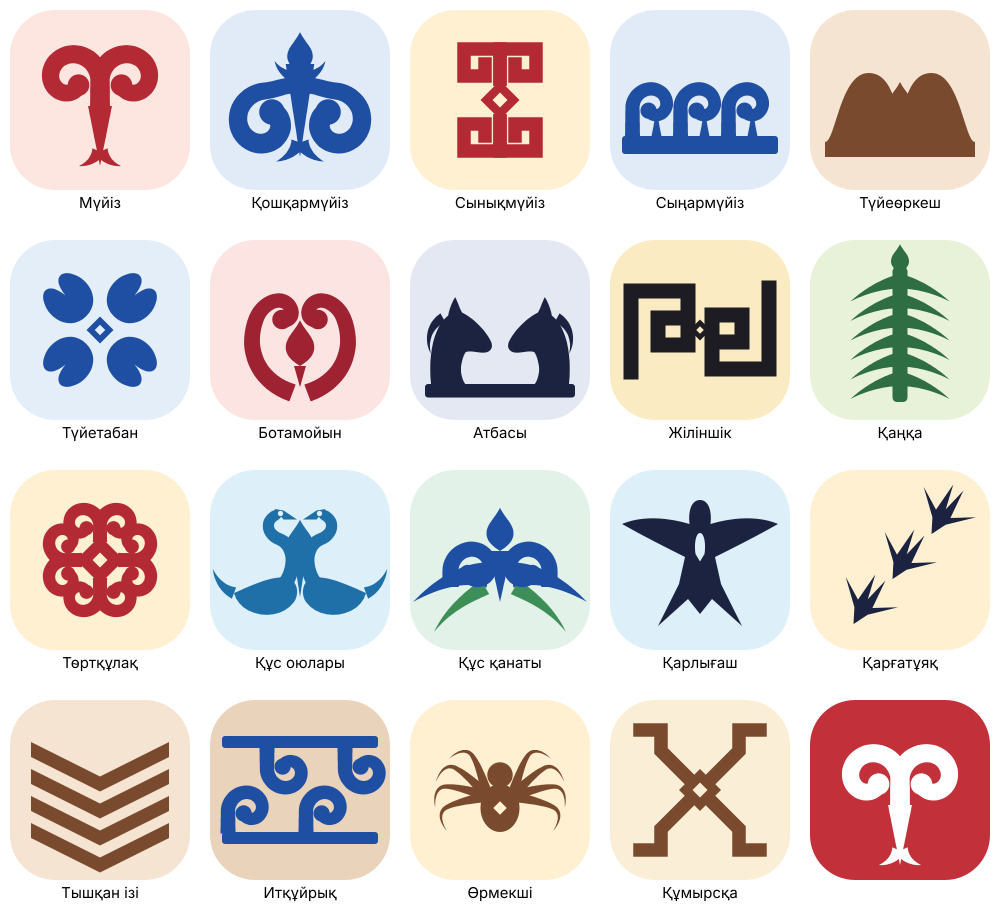
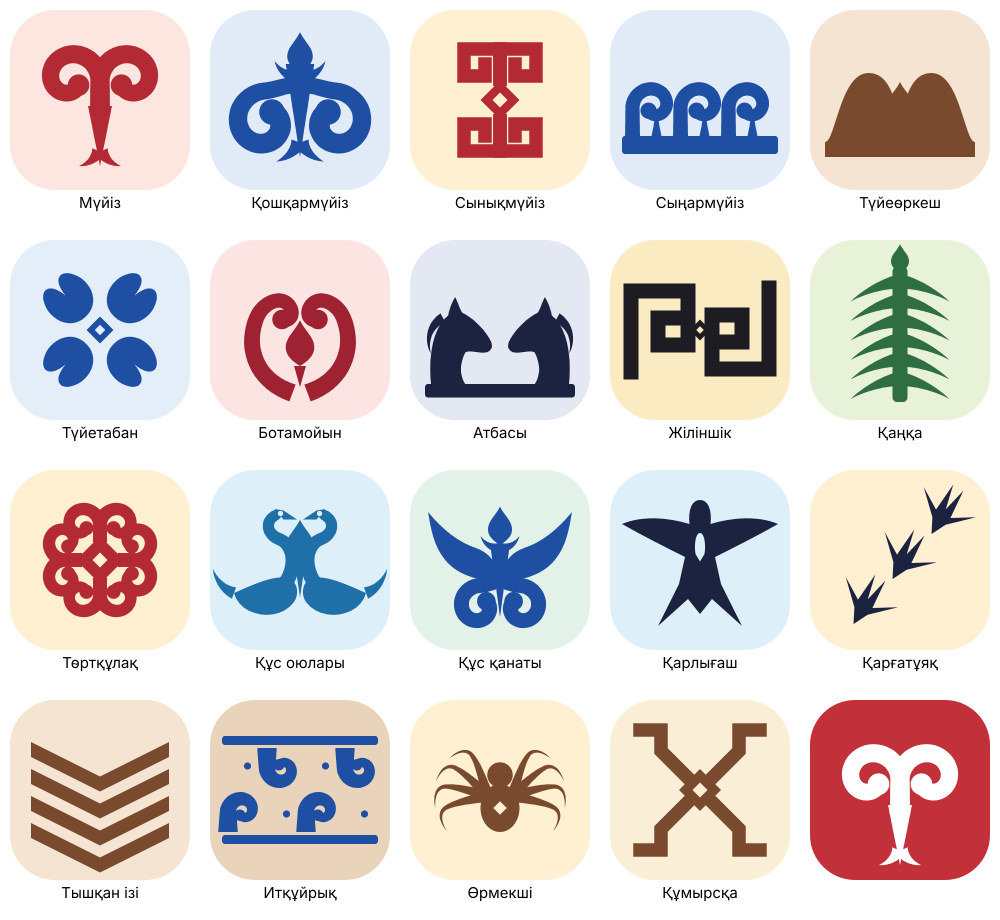
Redraw qus qanaty and it quyryq from open-licence references; list sources
Claude-Session: https://claude.ai/code/session_01NjPF9iNywv5Fmwc6nnLrA6

Changed region(s): [[0.403, 0.5478, 0.589, 0.7], [0.217, 0.7913, 0.403, 0.913]]

diff --git a/src/art.ts b/src/art.ts
@@ -265,15 +265,14 @@ const ART: Record<string, (p: Pal) => string> = {
   },
 
   // Qus qanaty: two curls facing the centre under a bud, long pointed wings sweeping out.
-  qanat: ([, f, a]) =>
-    spike([0, 0], [[-14, -2, -32, 4, -50, 18]], 17, { x: 52, y: 70 }, f) +
-    spike([0, 0], [[14, -2, 32, 4, 50, 18]], 17, { x: 68, y: 70 }, f) +
-    spike([0, 0], [[-10, 6, -24, 14, -34, 30]], 11, { x: 50, y: 78 }, a) +
-    spike([0, 0], [[10, 6, 24, 14, 34, 30]], 11, { x: 70, y: 78 }, a) +
-    coil({ a0: 180, cx: 16, cy: -12, R0: 16, R1: 5.5, turns: 0.9, w0: 11, w: 9, knob: 6, lead: [0, -4, 0, -8] }, { x: 27, y: 78 }, f) +
-    coil({ a0: 180, cx: 16, cy: -12, R0: 16, R1: 5.5, turns: 0.9, w0: 11, w: 9, knob: 6, lead: [0, -4, 0, -8] }, { x: 93, y: 78, flip: true }, f) +
-    spike([0, 0], [[0, 10, 0, 22, 0, 34]], 15, { x: 60, y: 54 }, f) +
-    bud({ x: 60, y: 54, s: 0.9 }, f),
+  qanat: ([, f]) =>
+    path('M58 74 C46 74 30 70 22 58 C16 50 14 40 12 28 C22 40 32 48 44 52 C52 55 56 60 58 66 Z', f) +
+    path('M62 74 C74 74 90 70 98 58 C104 50 106 40 108 28 C98 40 88 48 76 52 C68 55 64 60 62 66 Z', f) +
+    coilPair({ cx: 14, cy: 15, R0: 14, R1: 6, turns: 0.85, w0: 10, w: 10, knob: 6.2, lead: [3, -3, 8, 1] }, { x: 60, y: 76 }, f) +
+    spike([0, 0], [[0, 16, 0, 32, 0, 48]], 13, { x: 60, y: 50 }, f) +
+    spike([0, 0], [[5, 0, 10, -2, 13, -8]], 7, { x: 60, y: 52 }, f) +
+    spike([0, 0], [[-5, 0, -10, -2, -13, -8]], 7, { x: 60, y: 52 }, f) +
+    bud({ x: 60, y: 50, s: 0.8 }, f),
 
   // Qarlyghash: a swallow seen from above: swept wings, deep forked tail.
   qarlygash: ([b, f]) =>
@@ -298,10 +297,11 @@ const ART: Record<string, (p: Pal) => string> = {
 
   // It quyryq: curled dog's tails rising and hanging along a carved band.
   itquyryk: ([, f]) => {
-    const c: Coil = { a0: 180, cx: 14, cy: -16, R0: 14, R1: 4.5, turns: 0.9, w0: 10, w: 8, knob: 5.4, lead: [0, -6, 0, -12] };
-    return rect(8, 88, 104, 8, f, 2) + rect(8, 24, 104, 8, f, 2) +
-      [12, 64].map(x => coil(c, { x, y: 89 }, f)).join('') +
-      [38, 90].map(x => coil(c, { x, y: 31, sy: -1 }, f)).join('');
+    const c: Coil = { a0: 180, cx: 10, cy: -14, R0: 10, R1: 3.5, turns: 0.85, w0: 13, w: 5.5, knob: 3.8, lead: [0, -5, 0, -10] };
+    let s = rect(8, 90, 104, 6, f, 2) + rect(8, 24, 104, 6, f, 2);
+    [10, 36, 62, 88].forEach((x, i) => { s += i % 2 ? coil(c, { x: x + 2, y: 32, sy: -1 }, f) : coil(c, { x: x + 2, y: 88 }, f); });
+    for (let k = 0; k < 4; k++) s += circle(25 + k * 26, k % 2 ? 76 : 44, 2.4, f);
+    return s;
   },
 
   // Örmekshi: a spider — round body, eight jointed legs.

diff --git a/README.md b/README.md
@@ -83,6 +83,17 @@ scripts/selftest.ts        проверки контента и логики: np
 
 Сейчас орнаменты нарисованы простыми векторными формами в `src/art.ts`. Финальные иллюстрации делаются по промтам из документа курса и перерисовываются в SVG. Чтобы заменить картинку, верните её SVG-разметку из функции нужного орнамента в `ART` (поле зрения 120×120) или переключите компонент `Ornament` в `src/components/ui.tsx` на файлы изображений.
 
+## Источники для иллюстраций и смыслов
+
+Иллюстрации нарисованы в коде (`src/art.ts`), чужие изображения в приложение не встроены. Формы сверялись с открытыми образцами:
+
+- «Құс қанаты», табличка — [Kazakh ornaments.jpg](https://commons.wikimedia.org/wiki/File:Kazakh_ornaments.jpg), Akbota Bakyt, CC BY-SA 4.0
+- Войлочные ковры, Западный Казахстан, начало XX в. — [фото 1](https://commons.wikimedia.org/wiki/File:%D0%9A%D0%B0%D0%B7%D0%B0%D1%85%D1%81%D0%BA%D0%B8%D0%B9_%D0%B2%D0%BE%D0%B9%D0%BB%D0%BE%D1%87%D0%BD%D1%8B%D0%B9_%D0%BA%D0%BE%D0%B2%D0%B5%D1%80._%D0%97%D0%B0%D0%BF%D0%B0%D0%B4%D0%BD%D1%8B%D0%B9_%D0%9A%D0%B0%D0%B7%D0%B0%D1%85%D1%81%D1%82%D0%B0%D0%BD._%D0%9D%D0%B0%D1%87%D0%B0%D0%BB%D0%BE_20_%D0%B2.jpg), [фото 2](https://commons.wikimedia.org/wiki/File:%D0%9A%D0%B0%D0%B7%D0%B0%D1%85%D1%81%D0%BA%D0%B8%D0%B9_%D0%B2%D0%BE%D0%B9%D0%BB%D0%BE%D1%87%D0%BD%D1%8B%D0%B9_%D0%BA%D0%BE%D0%B2%D0%B5%D1%80.jpg), «Книжная пыль», CC BY 4.0
+- Дверь юрты, XIX в. — [фрагмент](https://commons.wikimedia.org/wiki/File:%D0%94%D0%B2%D0%B5%D1%80%D1%8C_%D1%8E%D1%80%D1%82%D1%8B_%D0%A4%D1%80%D0%B0%D0%B3%D0%BC%D0%B5%D0%BD%D1%82_01.jpg), «Книжная пыль», CC BY-SA 4.0
+- Сырмақ и басқұр — [Syrmaq](https://commons.wikimedia.org/wiki/File:Syrmaq._Kazakh_carpet.jpg), [Aq baskur](https://commons.wikimedia.org/wiki/File:Aq_-_baskur.jpg), CC0
+
+Смыслы сверены с: Шайгозова Ж., Наурызбаева А. «Знаки и символы казахской культуры. Краткая энциклопедия», 2023 ([cultural.kz](https://cultural.kz/?p=3596)); [artandcrafts.cultural.kz](https://artandcrafts.cultural.kz/en/%D2%9Bosh%D2%9Bar-m%D2%AFjiz-barani-roga-%D2%9Bos-m%D2%AFjiz-parnye-roga-sy%D2%A3ar-m%D2%AFjiz-odin-rog/); [Kazakh ornaments — Wikipedia](https://en.wikipedia.org/wiki/Kazakh_ornaments).
+
 ## Что дальше
 
 - модули 3–9 по карте курса;
